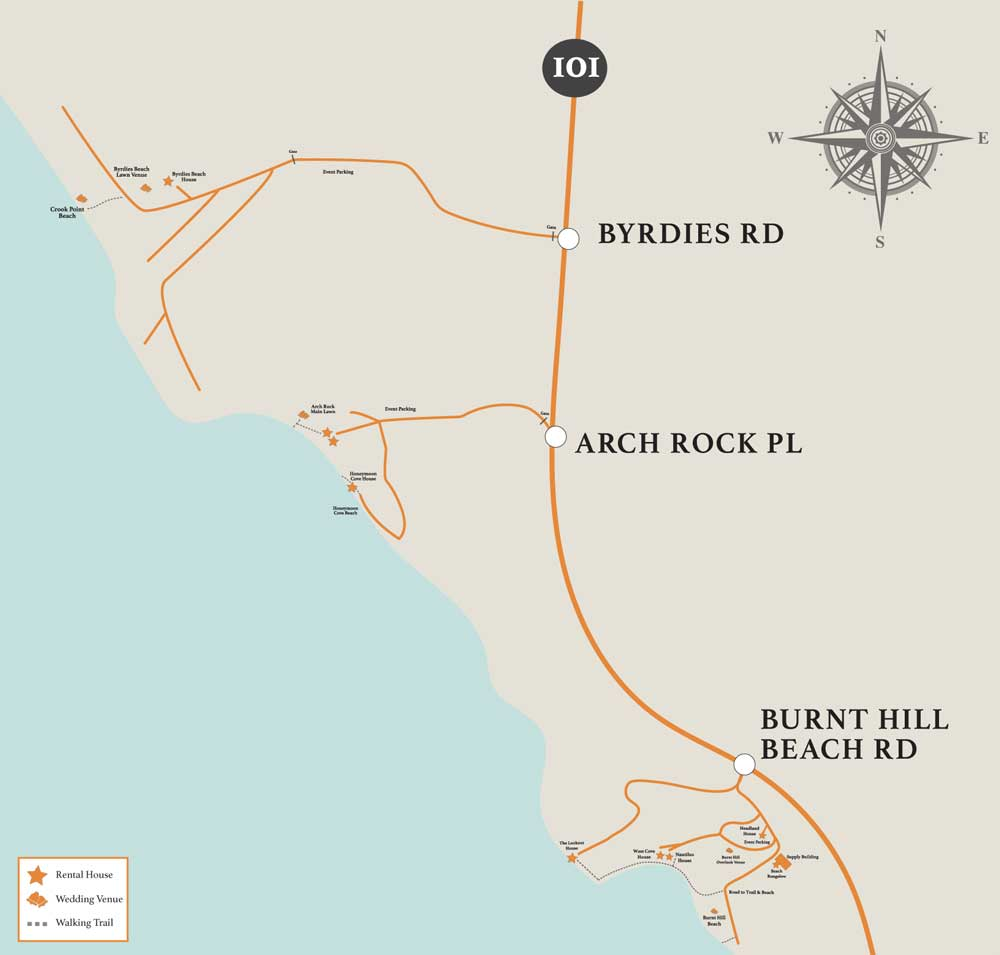
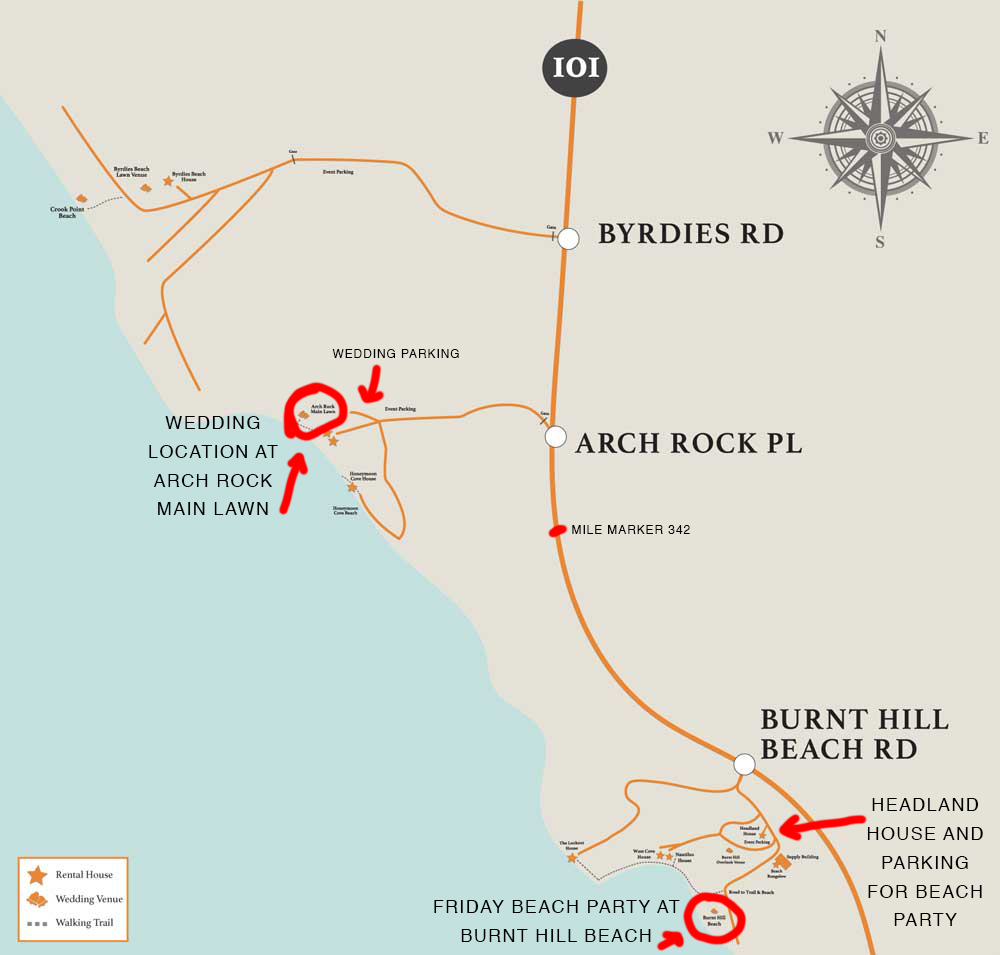
Updated map and welcome dinner time

diff --git a/content/schedule/index.md b/content/schedule/index.md
@@ -22,13 +22,13 @@ footer_blurb:  "  |  Photos on this page taken by <a href=\"https://mgpulido.co\
                     </h2>
                     <h4>7:45 AM - Jet Boats</h4>
                     <p class="txt9">We are starting the day early with a 104 mile jet boat ride up the Wild and Scenic Rogue River! We will be spread across two big boats and the trip starts at 8 AM (but folks need to arrive at  7:45 AM). Cost is $50 per person. The trip will be around 7 hours total with a stop for lunch in the middle (please bring money for this) of the ride. We expect to be back around 4 PM. Please join us - this will be a blast and we are SO excited to go on a fun adventure with friends and family. The Rogue River is a super special place to us and this section of the river is ONLY open to people with permits (which we have reserved)! We have a couple spots left if you would like to join! Please let us know via the <a style="text-decoration:underline;" href="/contact/">contact page</a>.</p><br><br>
-                    <h4>6:30 PM - Welcome Beach Party</h4>
-                    <p class="txt9">In lieu of a traditional rehearsal dinner, we will be gathering with any guests in the area at about 6:30 PM for a welcome beach dinner and party. ALL ARE WELCOME! We will have pizza and beer (as well as V/GF food options). Afterwards, we plan on spending quality time with all of you around a cozy bonfire. Please bring warm clothing as well as a chair and/or blanket to sit on. This will be a casual event, so feel free to embrace your inner beach bum vibes.</p><br /><br />
+                    <h4>7:00 PM - Welcome Beach Party</h4>
+                    <p class="txt9">In lieu of a traditional rehearsal dinner, we will be gathering with any guests in the area at about 7:00 PM for a welcome beach dinner and party (look <a style="text-decoration: underline;" href="/directions#venuemap">here for map</a>). ALL ARE WELCOME! We will have pizza and beer (as well as V/GF food options). Afterwards, we plan on spending quality time with all of you around a cozy bonfire. Please bring warm clothing as well as a chair and/or blanket to sit on. This will be a casual event, so feel free to embrace your inner beach bum vibes.</p><br /><br />
                     <h2 class="tit2 t-center m-b-35 m-t-2">
                         Saturday July 13 - The Wedding
                     </h2>
                     <h4>3:00 PM - Wedding Begins </h4>
-                    <p class="txt9">The wedding starts at 3 PM on the Arch Rock main lawn at Crook Point! We can't wait to see you! The dress code is cocktail attire but please wear comfortable shoes - the event will be on grass which can be difficult for heels. We are expecting traditional cool, coastal weather and the event is completely outside - so bring a jacket.</p><br /><br />
+                    <p class="txt9">The wedding starts at 3 PM on the Arch Rock main lawn at Crook Point  (look <a style="text-decoration: underline;" href="/directions#venuemap">here for map</a>)! We can't wait to see you! The dress code is cocktail attire but please wear comfortable shoes - the event will be on grass which can be difficult for heels. We are expecting traditional cool, coastal weather and the event is completely outside - so bring a jacket.</p><br /><br />
                     <h4>12:00 AM - Wedding Ends </h4>
                     <p class="txt9">Amplified music will stop at 12 AM, however we can hangout on the lawn until 1 AM.</p>
                     <br />

diff --git a/content/directions/index.md b/content/directions/index.md
@@ -16,8 +16,8 @@ footer_blurb:  "  |  Photos on this page taken by <a href=\"https://catalinajean
                 </div>
                 <br>
                 <p style="text-align: center">The venue is located 14 miles north of Brookings, Oregon and 13 miles south of Gold Beach, Oregon, between mileposts 341 and 342. When traveling south from Gold Beach, you will cross the Pistol River Bridge (10 miles) and will then pass Byrdies road, turning right (west) on Arch Rock Place. If you travel too far, you will pass milepost 342 and Burnt Hill Beach road. When traveling north from Brookings, you will cross the Thomas Creek Bridge (10 miles) and the Burnt Hill Creek fill (14 miles) and then Burnt Hill Beach road. Turn left (west) at Arch Rock Place. If you travel too far, you will pass Byrdies Road.</p>
-                <br />
-                <p style="text-align: center">If you are looking to carpool with others, checkout <a style="text-decoration: underline;" href="https://docs.google.com/spreadsheets/d/11BBVWcBscyb0wW6KWGss0NactEaBs8IpPryGZtH93qo/edit?ts=5cdc7696#gid=0">this online spreadsheet</a>.</p>
+                <!--<br />
+                <p style="text-align: center">If you are looking to carpool with others, checkout <a style="text-decoration: underline;" href="https://docs.google.com/spreadsheets/d/11BBVWcBscyb0wW6KWGss0NactEaBs8IpPryGZtH93qo/edit?ts=5cdc7696#gid=0">this online spreadsheet</a>.</p>-->
             </div>
         </div>
         <div class="row">
@@ -29,6 +29,7 @@ footer_blurb:  "  |  Photos on this page taken by <a href=\"https://catalinajean
             </div>
         </div>
         <br>
+        <h4 id="venuemap" class="t-center">Venue Map</h4>
         <div class="row">
             <img src="/images/crookPointMap.jpg" style="margin: 0 auto;">
         </div>
